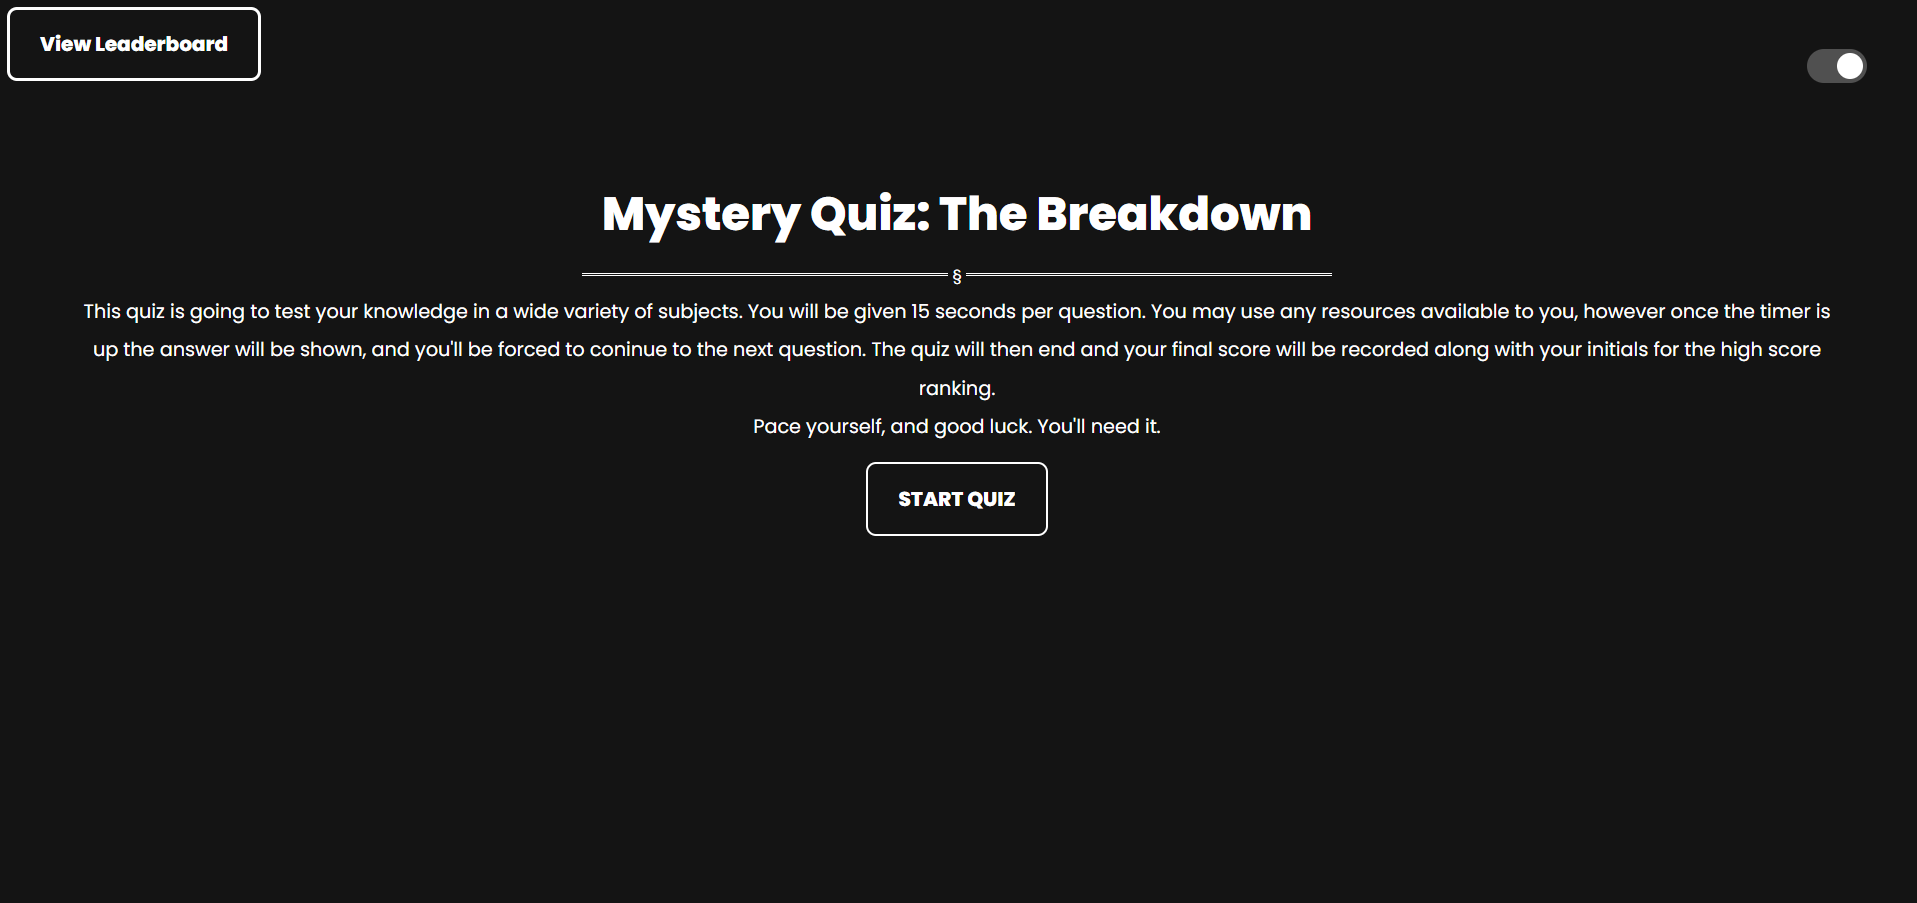
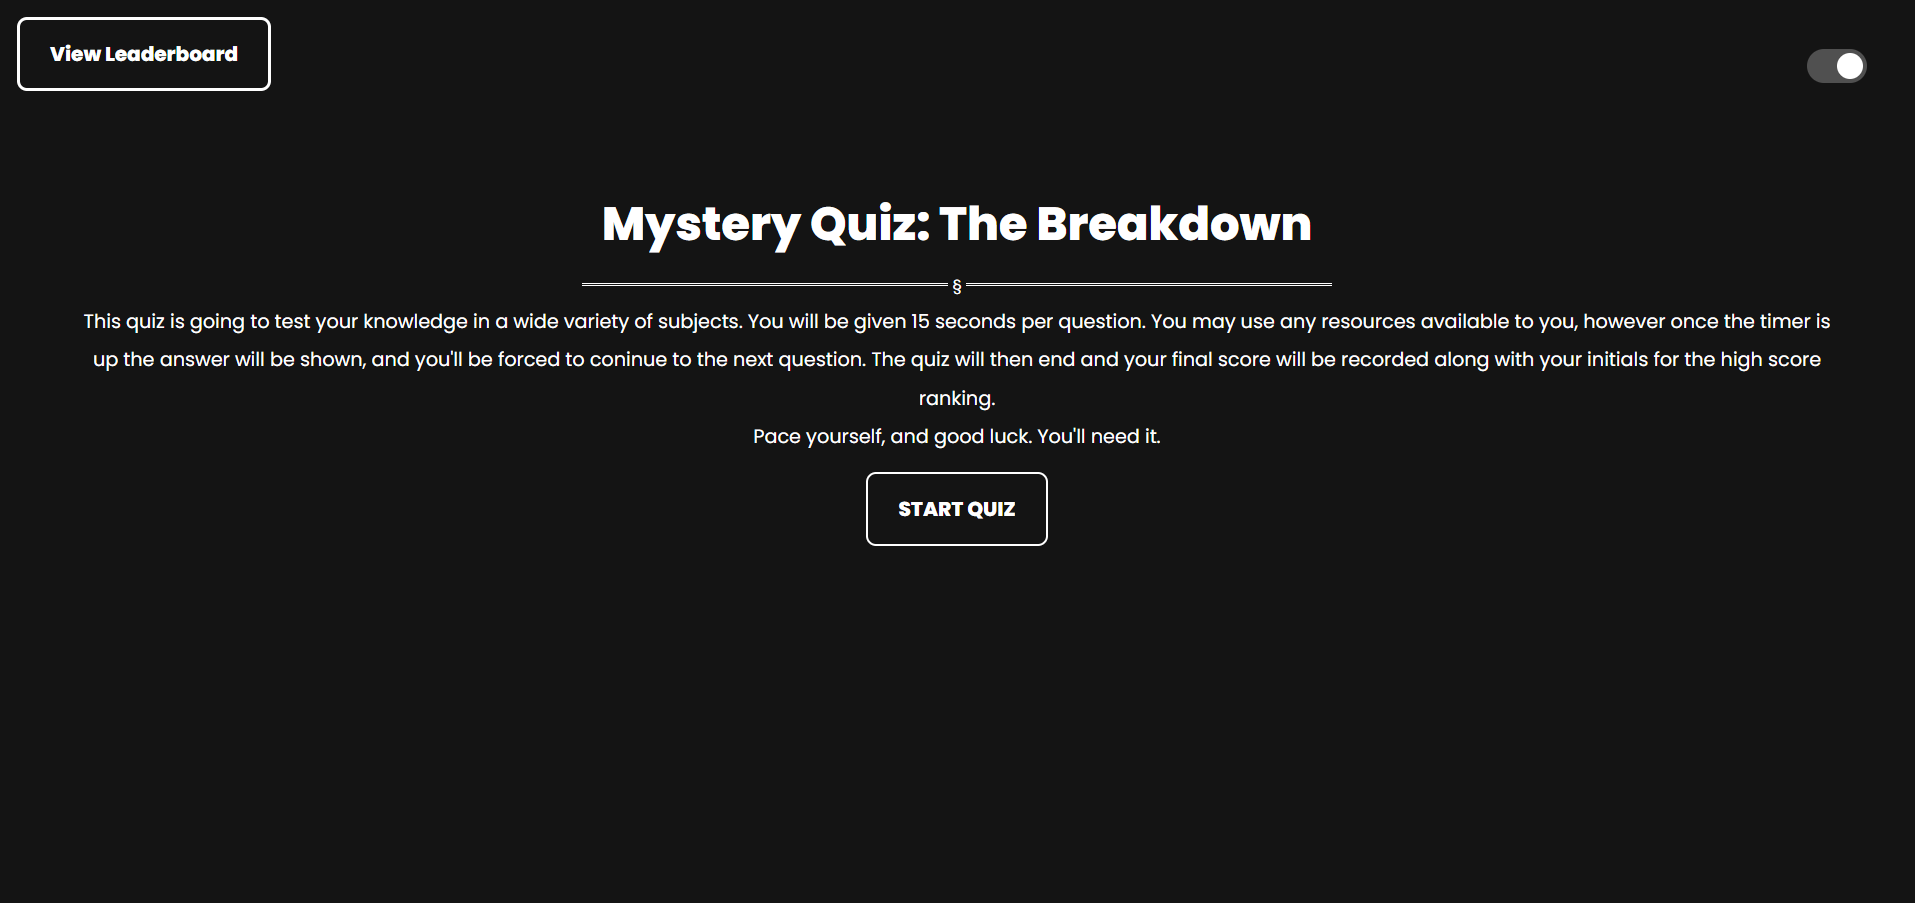
fixed formatting, new screenshot

diff --git a/assets/css/style.css b/assets/css/style.css
@@ -99,8 +99,8 @@ input:checked + .slider:before {
 
 #viewscore-box {
   text-decoration: none;
-  margin-left: 10px;
-  margin-top: 30px;
+  margin-left: 20px;
+  margin-top: 40px;
 }
 
 #viewscore-box a{
